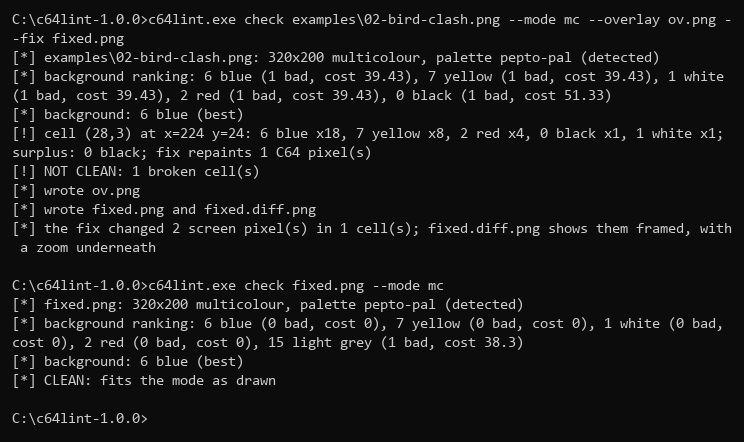
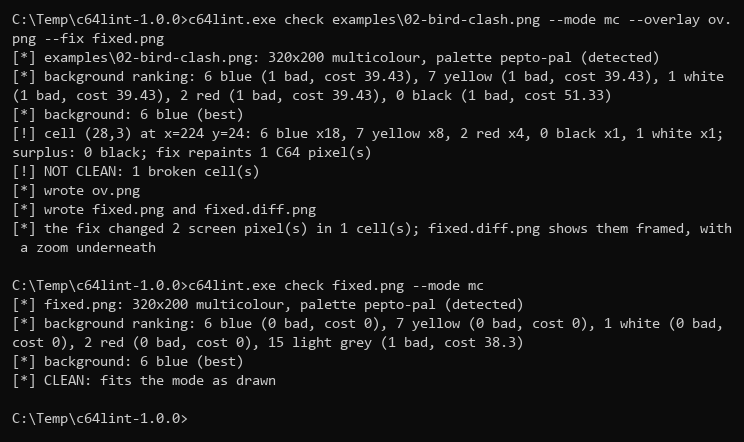
CSDb terminal capture: prompt shows C:\Temp\c64lint-1.0.0; notes list both screenshots

diff --git a/docs/csdb-submission.md b/docs/csdb-submission.md
@@ -40,12 +40,20 @@ Upload both, in this order:
    broken in one typical way, so people can see what the tool reports before
    they point it at their own art.
 
-### Screenshot
+### Screenshots
 
-`docs/csdb-screenshot.png` (384x272). The neon-sign test picture before
-(broken cells framed red) and after `--fix` (changed cells framed magenta),
-with the matching report lines, all text in the real C64 character set. It is
-a composed picture, not a capture of a running C64 — c64lint runs on the PC.
+Upload both, in this order - the first one becomes the thumbnail:
+
+1. `docs/csdb-screenshot.png` (384x272). The neon-sign test picture before
+   (broken cells framed red) and after `--fix` (changed cells framed magenta),
+   with the matching report lines, all text in the real C64 character set. It
+   is a composed picture, not a capture of a running C64 - c64lint runs on the
+   PC.
+2. `docs/csdb-terminal.png` (744x442). A console window with the real output
+   of `c64lint.exe check examples-bird-clash.png --mode mc --overlay ov.png
+   --fix fixed.png` run in `C:\Temp\c64lint-1.0.0`, followed by a re-check of
+   `fixed.png` that comes out CLEAN. Text is the 1.0.0 binary's actual output,
+   wrapped at 90 columns.
 
 ---
 
@@ -81,6 +89,7 @@ is one file.
       `c64lint.exe check examples\02-bird-clash.png --mode mc` from the
       unpacked folder
 - [ ] You ran it on one picture of your own
-- [ ] The screenshot is `docs/csdb-screenshot.png`, 384x272
+- [ ] Screenshots: `docs/csdb-screenshot.png` (384x272) first, then
+      `docs/csdb-terminal.png` (744x442)
 - [ ] Optional: a note to Burglar first - c64lint hands its clean pictures to
       png2prg (`--then png2prg`), it is meant to sit next to his tool
